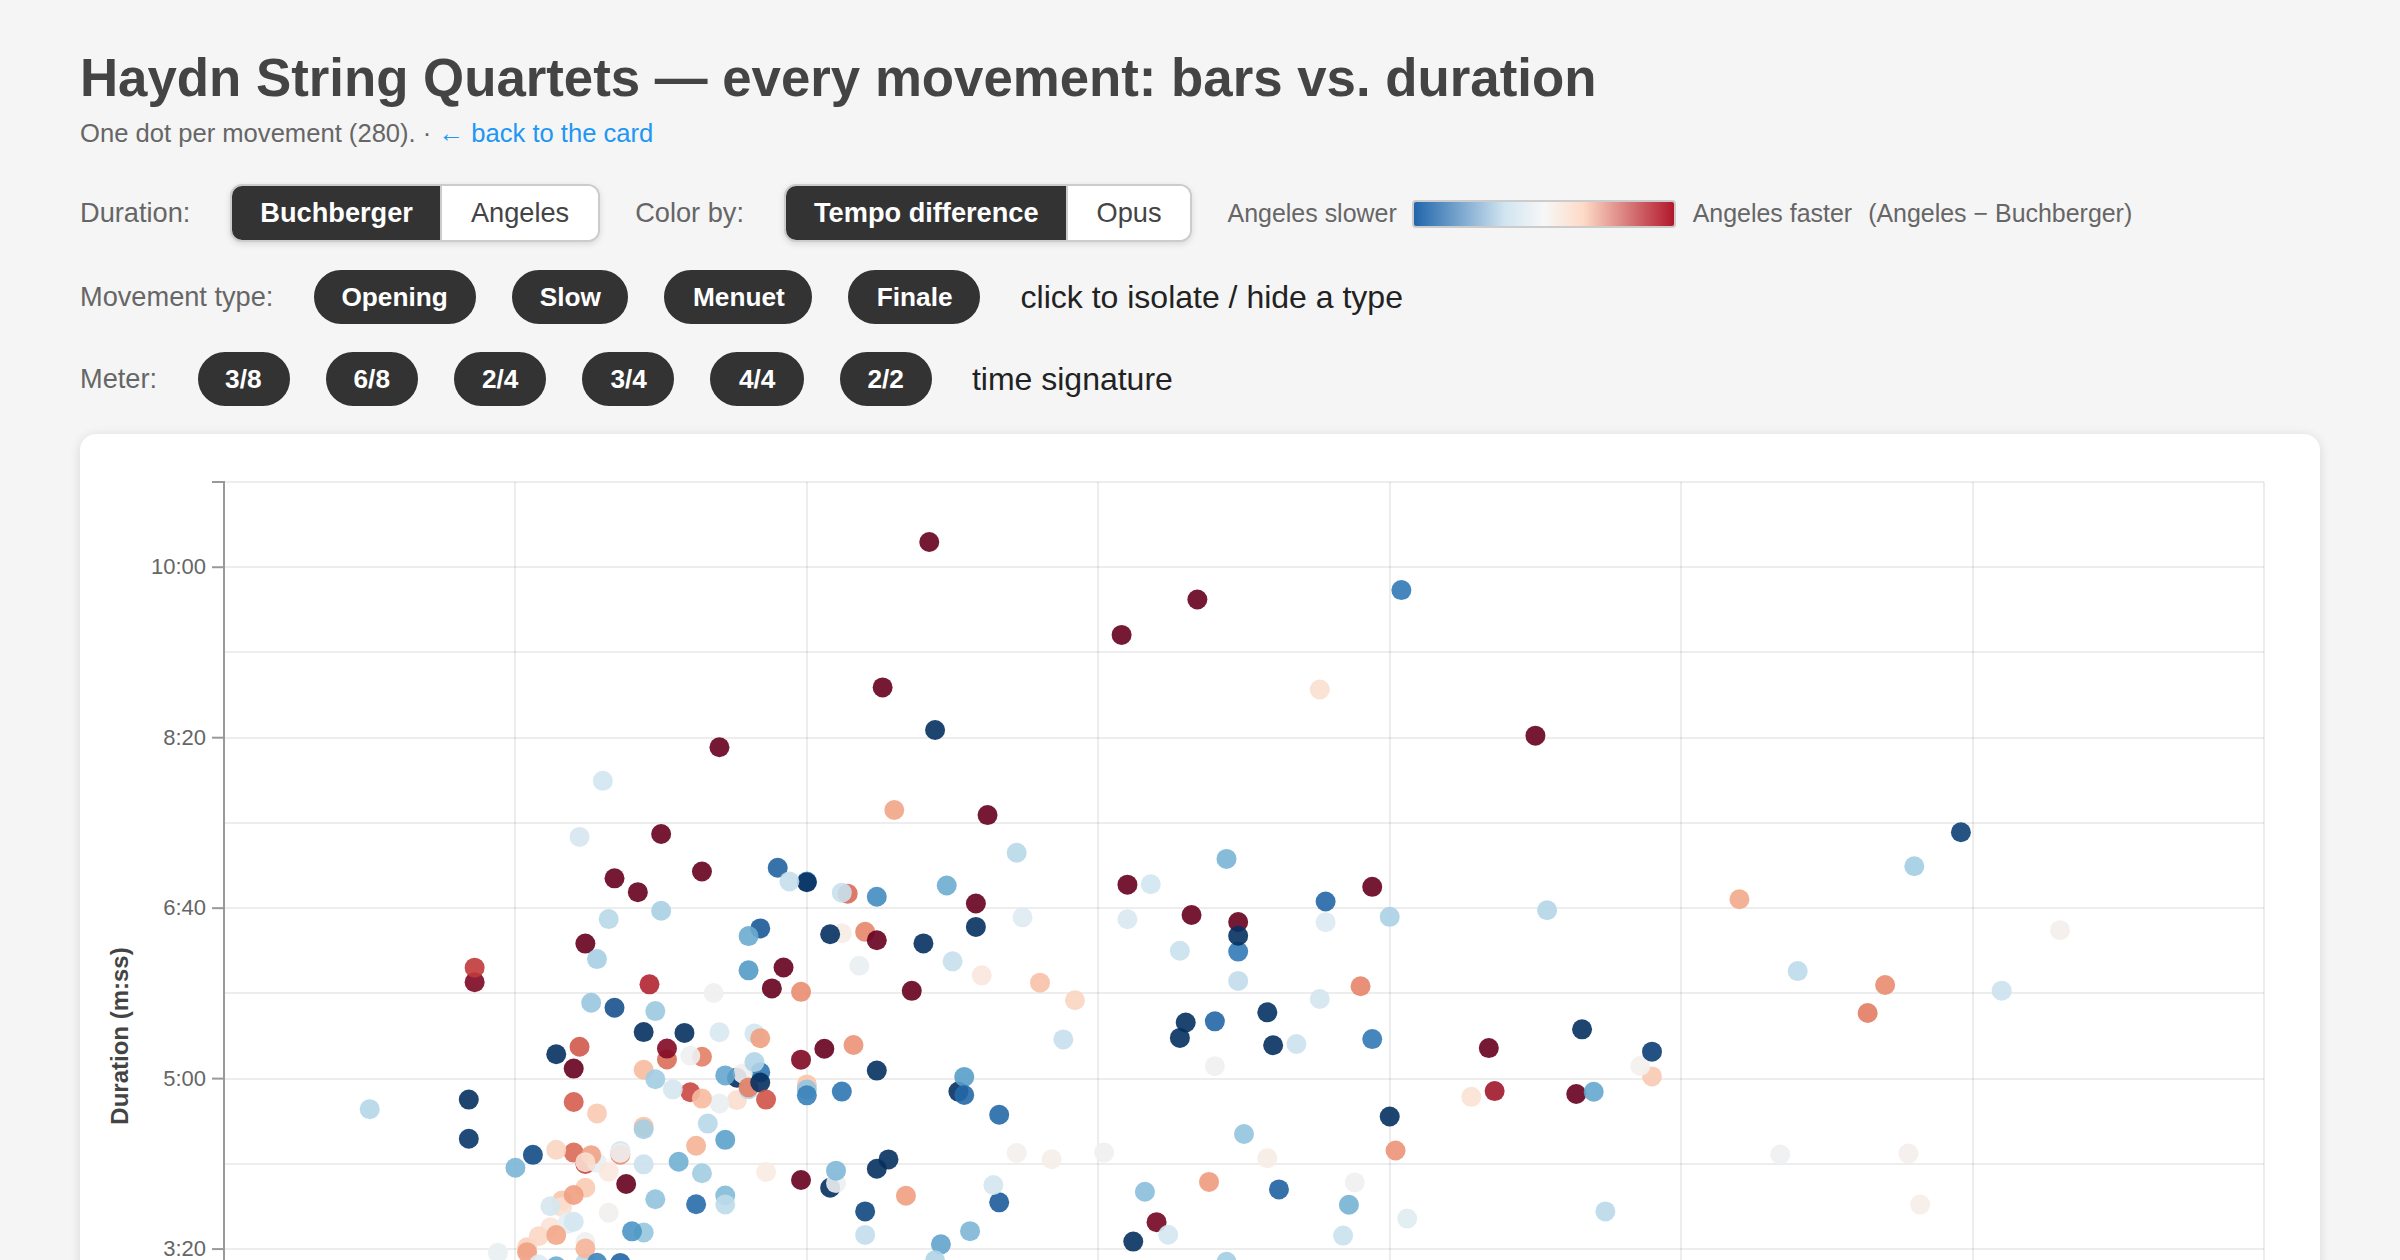
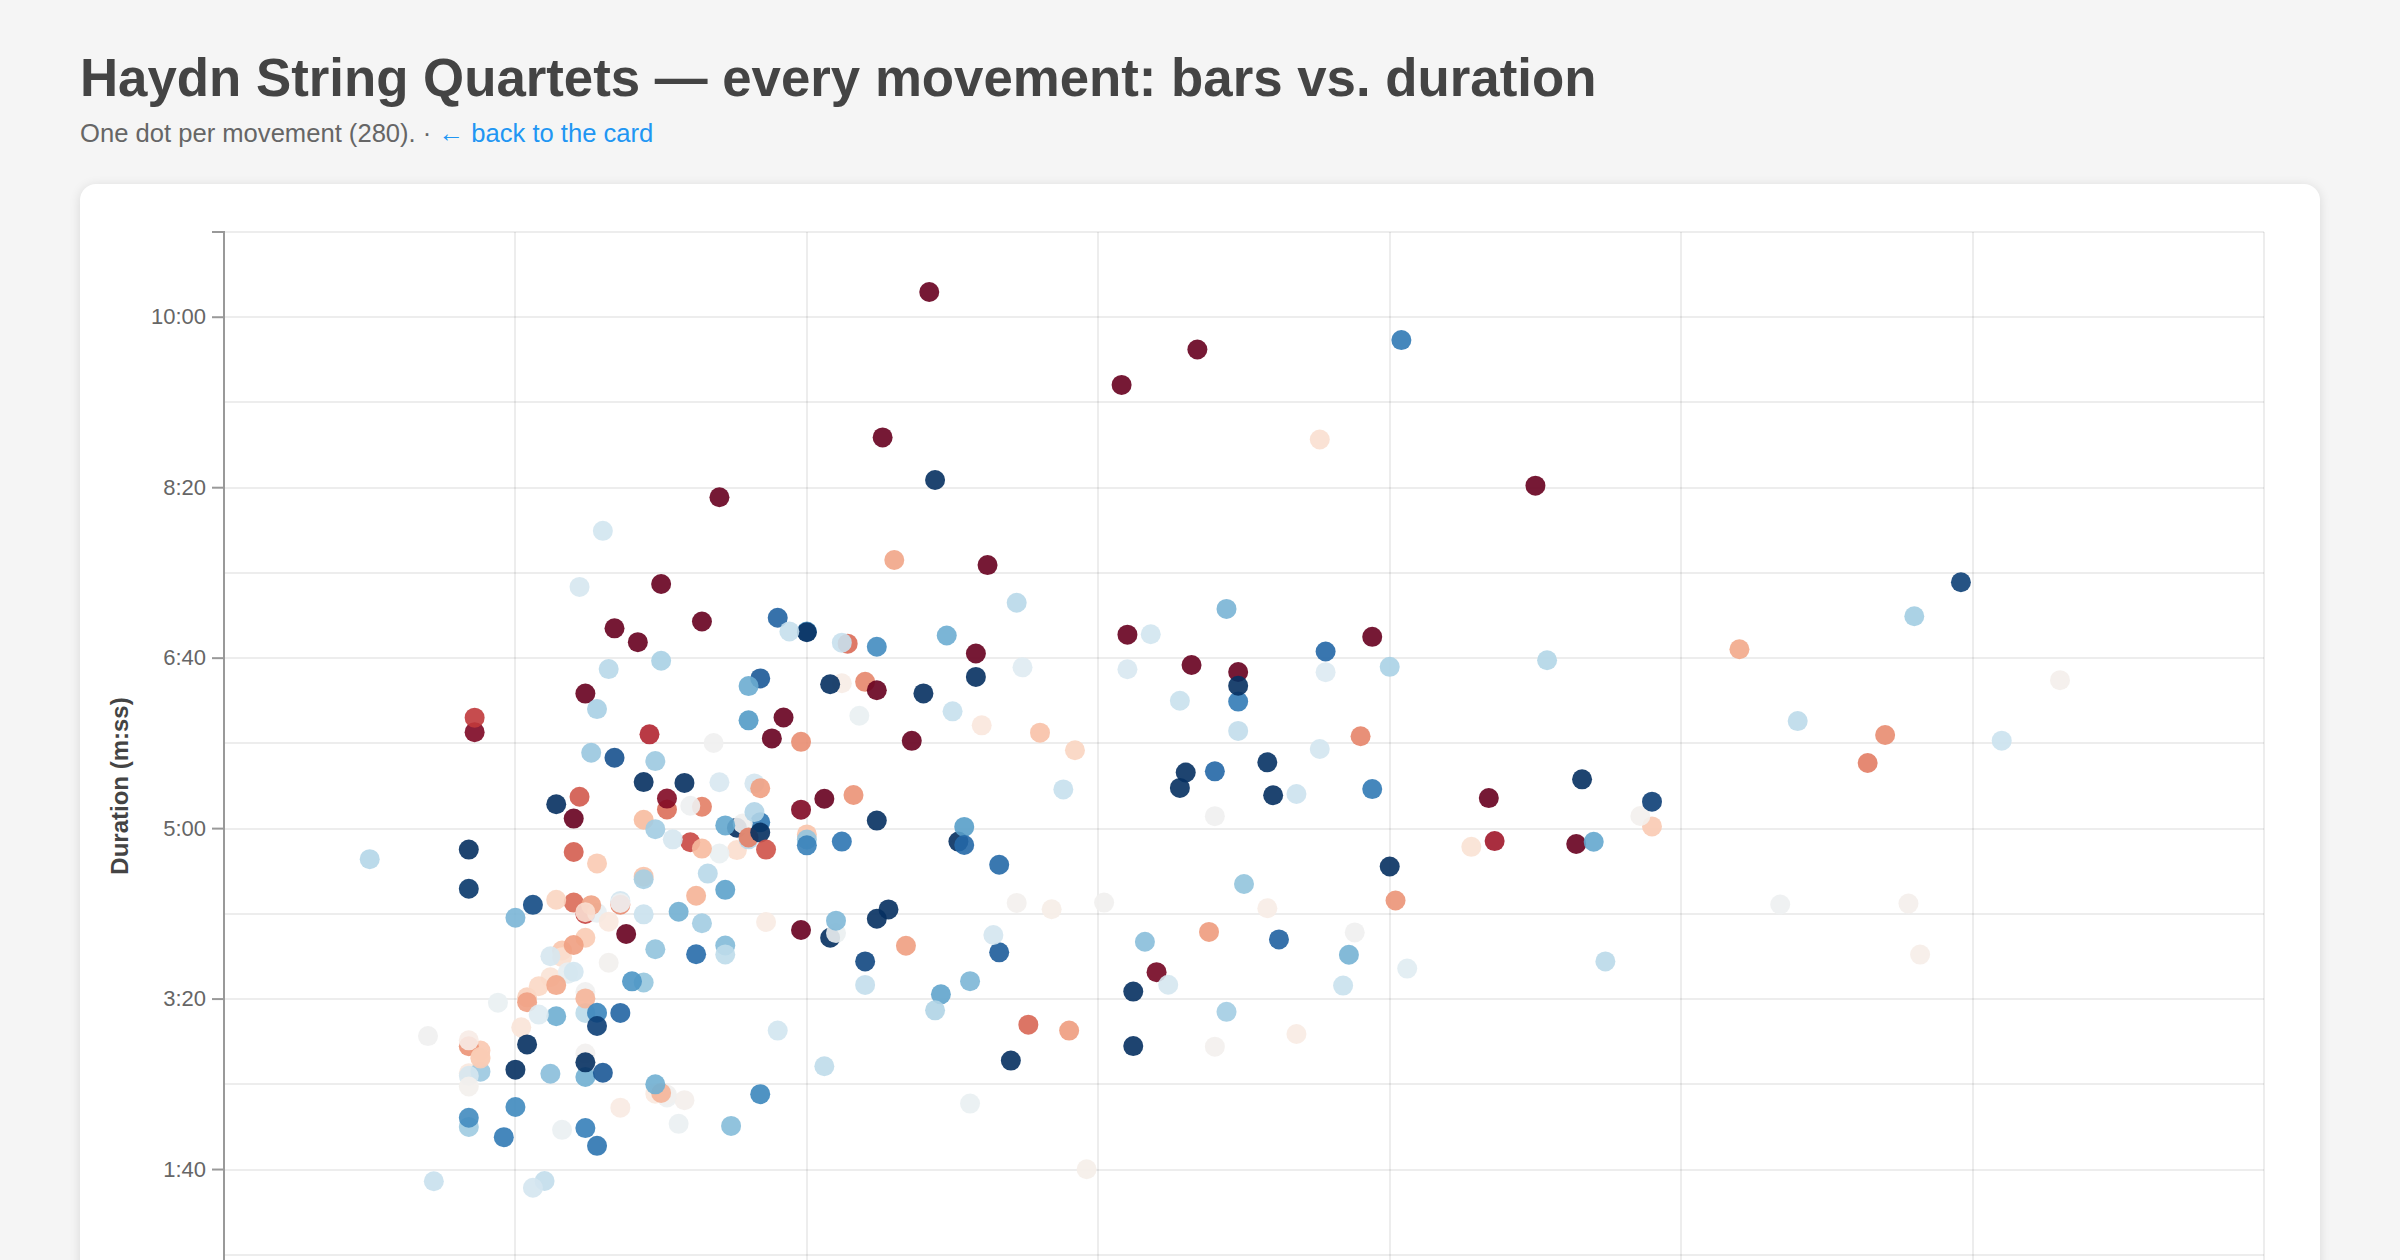
scatter: mobile layout — chart on top, full width, compact single-line controls
Reworked the layout for phones (and tidied desktop):
- Chart moved above the controls and spans the screen (reduced side padding),
  so it's far more legible/tappable; dots are bigger (r=6) and the plot is
  taller on narrow screens to spread 280 points out.
- Controls grouped into self-contained .control-group units. On mobile each
  group is its own row and never wraps (nowrap + horizontal scroll), so every
  option set reads as a single line; hints/formula footnote are hidden to fit.
- Meter chips now render into a dedicated #meter-chips container.

Regenerated the scatter share-sheet preview to match (now chart-focused).

Claude-Session: https://claude.ai/code/session_013onSz4TA2kdDkQphiVHnj7

diff --git a/web/scatter.html b/web/scatter.html
@@ -119,6 +119,10 @@
             gap: 18px;
             margin-bottom: 14px;
         }
+        /* A self-contained labelled control (one toggle / one chip set), so it can
+           be kept on a single line and stacked per-row on narrow screens. */
+        .control-group { display: inline-flex; align-items: center; gap: 8px; }
+        .chips { display: inline-flex; flex-wrap: wrap; align-items: center; gap: 6px 8px; }
         .toggle-label { font-size: 0.85em; color: var(--text-muted); margin-right: 2px; }
         .toggle {
             display: inline-flex;
@@ -174,6 +178,7 @@
             border-radius: 8px;
             box-shadow: 0 1px 6px var(--shadow);
             padding: 8px 8px 4px;
+            margin-bottom: 16px;   /* chart sits above the controls */
         }
         svg { display: block; width: 100%; height: auto; }
         .axis path, .axis line { stroke: var(--axis-line); }
@@ -227,6 +232,37 @@
             pointer-events: auto;   /* tappable even though the tooltip is click-through */
         }
         .tooltip .tt-play:hover { background: #1ed760; }
+
+        /* === MOBILE === */
+        @media (max-width: 640px) {
+            body { padding: 12px 8px 24px; }
+            .wrap { max-width: none; }
+            h1 { font-size: 1.18em; line-height: 1.25; }
+            .subtitle { font-size: 0.85em; margin-bottom: 12px; }
+
+            /* Reclaim the side whitespace so the chart spans the screen. */
+            .plot-panel { padding: 4px 2px 2px; margin-bottom: 14px; }
+
+            /* One control group per row; never wrap — scroll sideways if it can't
+               fit, so each "option set" always reads as a single line. */
+            .controls { flex-direction: column; align-items: stretch; gap: 9px; margin-bottom: 0; }
+            .control-group {
+                flex-wrap: nowrap; overflow-x: auto;
+                -webkit-overflow-scrolling: touch; scrollbar-width: none;
+            }
+            .control-group::-webkit-scrollbar { display: none; }
+            .chips { flex-wrap: nowrap; }
+            .toggle-label, .toggle, .toggle button, .chip { flex: 0 0 auto; }
+            .toggle-label { font-size: 0.78em; }
+            .toggle button { font-size: 0.78em; padding: 6px 10px; }
+            .chip { font-size: 0.78em; padding: 6px 11px; }
+            .diff-legend { font-size: 0.72em; }
+            .diff-legend .bar { width: 84px; }
+            /* Declutter: drop hints and the formula footnote on small screens. */
+            .chip-hint, .diff-formula { display: none; }
+
+            .opus-legend { margin-top: 10px; }
+        }
     </style>
 </head>
 <body>
@@ -237,41 +273,52 @@
             <a href="index.html">&larr; back to the card</a>
         </p>
 
+        <div class="plot-panel">
+            <div id="plot"></div>
+        </div>
+
         <div class="controls">
-            <span class="toggle-label">Duration:</span>
-            <div class="toggle" id="toggle">
-                <button data-rec="buchberger" class="active">Buchberger</button>
-                <button data-rec="angeles">Angeles</button>
+            <div class="control-group">
+                <span class="toggle-label">Duration:</span>
+                <div class="toggle" id="toggle">
+                    <button data-rec="buchberger" class="active">Buchberger</button>
+                    <button data-rec="angeles">Angeles</button>
+                </div>
             </div>
-            <span class="toggle-label">Color by:</span>
-            <div class="toggle" id="color-toggle">
-                <button data-color="diff" class="active">Tempo difference</button>
-                <button data-color="opus">Opus</button>
+            <div class="control-group">
+                <span class="toggle-label">Color by:</span>
+                <div class="toggle" id="color-toggle">
+                    <button data-color="diff" class="active">Tempo difference</button>
+                    <button data-color="opus">Opus</button>
+                </div>
             </div>
-            <span class="diff-legend" id="diff-legend">
+            <div class="control-group diff-legend" id="diff-legend">
                 <span>Angeles slower</span>
                 <span class="bar"></span>
                 <span>Angeles faster</span>
-                <span class="tt-dim">(Angeles − Buchberger)</span>
-            </span>
+                <span class="tt-dim diff-formula">(Angeles − Buchberger)</span>
+            </div>
         </div>
 
         <div class="controls" id="type-filter">
-            <span class="toggle-label">Movement type:</span>
-            <button class="chip active" data-type="Opening">Opening</button>
-            <button class="chip active" data-type="Slow">Slow</button>
-            <button class="chip active" data-type="Menuet">Menuet</button>
-            <button class="chip active" data-type="Finale">Finale</button>
-            <span class="tt-dim chip-hint">click to isolate / hide a type</span>
+            <div class="control-group">
+                <span class="toggle-label">Movement type:</span>
+                <span class="chips">
+                    <button class="chip active" data-type="Opening">Opening</button>
+                    <button class="chip active" data-type="Slow">Slow</button>
+                    <button class="chip active" data-type="Menuet">Menuet</button>
+                    <button class="chip active" data-type="Finale">Finale</button>
+                </span>
+                <span class="tt-dim chip-hint">click to isolate / hide a type</span>
+            </div>
         </div>
 
         <div class="controls" id="meter-filter">
-            <span class="toggle-label">Meter:</span>
-            <!-- meter chips injected by JS, sorted by largest denominator first -->
-        </div>
-
-        <div class="plot-panel">
-            <div id="plot"></div>
+            <div class="control-group">
+                <span class="toggle-label">Meter:</span>
+                <span class="chips" id="meter-chips"><!-- chips injected by JS, largest denominator first --></span>
+                <span class="tt-dim chip-hint">time signature</span>
+            </div>
         </div>
         <div class="opus-legend" id="opus-legend"></div>
     </div>
@@ -408,8 +455,10 @@
 
             function build() {
                 plot.selectAll('*').remove();
-                const outerW = Math.max(360, plot.node().clientWidth || 1080);
-                const outerH = Math.round(Math.min(640, Math.max(420, outerW * 0.56)));
+                const outerW = Math.max(320, plot.node().clientWidth || 1080);
+                const isNarrow = outerW < 640;
+                // Taller (more portrait) on phones so 280 dots spread out and stay tappable.
+                const outerH = Math.round(Math.min(640, Math.max(isNarrow ? 480 : 420, outerW * 0.56)));
                 width = outerW - margin.left - margin.right;
                 height = outerH - margin.top - margin.bottom;
 
@@ -451,7 +500,7 @@
                 dots = gPlot.append('g').selectAll('circle')
                     .data(points).enter().append('circle')
                     .attr('class', 'dot')
-                    .attr('r', 5)
+                    .attr('r', isNarrow ? 6 : 5)
                     .attr('cx', p => x(p.bars))
                     .attr('cy', p => y(yVal(p)))
                     .attr('fill', fillFor)
@@ -561,7 +610,7 @@
             });
 
             // ---- meter filter (chips built from the data, sorted by denominator) ----
-            const meterRow = d3.select('#meter-filter');
+            const meterRow = d3.select('#meter-chips');
             meterOrder.forEach(m => {
                 meterRow.append('button')
                     .attr('class', 'chip active')
@@ -573,8 +622,6 @@
                         applyFilter();
                     });
             });
-            meterRow.append('span').attr('class', 'tt-dim chip-hint')
-                .text('time signature');
 
             // ---- opus legend (per opus block, in render order) ----
             // Hidden until "Color by: Opus" is selected, since opus is then the fill.